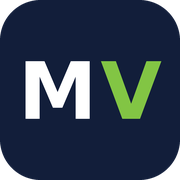
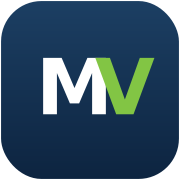
El isotipo pasa al ícono único de MV Software
Los trece productos comparten ícono. Kobra servía uno propio —fondo plano
#121E3A y la M y la V separadas— que era el más distinto de todos: medido
contra el canónico sobre los favicons publicados daba 36,2/255 de diferencia
media.

Los 14 archivos de ícono del repo se regeneran desde el SVG canónico, cada
PNG rasterizado a su tamaño exacto en vez de escalar otro PNG (escalar
emborrona en 32 y 64 px, que es donde más se ve).

## La identidad declarada también cambia, y a propósito

`marketing/marca.py` decía que el fondo del isotipo era un color plano, y su
comentario avisa que esos colores "son la identidad gráfica, y cambiarlos es
rehacer el logo". El ícono de MV Software lleva degradado, así que unificar
obliga a tocarlo: `fondo` pasa a ser la parada superior (#1C3F63) y se suma
`fondo_inferior` (#0D2440). Se conservan las dos para el código que necesite
un color sólido de referencia.

`tests/test_marca.py` se actualiza en consecuencia: en vez de exigir un
`fill` plano, comprueba las dos paradas dentro del <linearGradient> y que la
M y la V sigan siendo relleno sólido. El test no se debilita — sigue fallando
si alguien cambia un color o si el fondo deja de ser degradado.

Lo que NO cambia: el verde sigue siendo #82C544, el que ya declaraba este
mismo archivo. De hecho el canónico venía con #5cb531 por un error mío y se
corrigió tomando como referencia este marca.py.

Verificado: 1373 tests pasan, 8 saltados, 0 fallas.
[…]

diff --git a/marketing/marca.py b/marketing/marca.py
@@ -72,7 +72,12 @@ ACENTOS = ("green", "blue", "amber")
 # Colores propios del isotipo. No son intercambiables con los de arriba: son
 # la identidad gráfica, y cambiarlos es rehacer el logo.
 LOGO = {
-    "fondo": "#121E3A",   # cuadrado redondeado
+    # El cuadrado dejó de ser un color plano: el ícono de MV Software —el mismo
+    # para los trece productos— lleva un degradado vertical. Se conservan las
+    # dos paradas y `fondo` queda apuntando a la de arriba, para el código que
+    # necesite un color sólido de referencia (bordes, placeholders).
+    "fondo": "#1C3F63",        # parada superior del degradado
+    "fondo_inferior": "#0D2440",  # parada inferior
     "m": "#FFFFFF",       # la "M"
     "v": "#82C544",       # la "V" — ver la nota del encabezado
     "lienzo": "#0E1117",  # fondo incrustado en el PNG del logotipo

diff --git a/tests/test_marca.py b/tests/test_marca.py
@@ -94,8 +94,13 @@ def test_existe_el_svg_y_es_svg_de_verdad(nombre):
 
 
 def test_el_isotipo_tiene_las_tres_capas_con_sus_colores():
+    """El fondo es un degradado, no un color plano: se comprueban sus dos
+    paradas dentro del <linearGradient>, y la M y la V como relleno sólido."""
     svg = open(os.path.join(BRAND, "mv_icon.svg"), encoding="utf-8").read()
-    for clave in ("fondo", "m", "v"):
+    for clave in ("fondo", "fondo_inferior"):
+        assert f'stop-color="{M.LOGO[clave]}"' in svg, f"falta la parada {clave}"
+    assert "linearGradient" in svg, "el fondo dejó de ser degradado"
+    for clave in ("m", "v"):
         assert f'fill="{M.LOGO[clave]}"' in svg, f"falta la capa {clave}"
 
 
